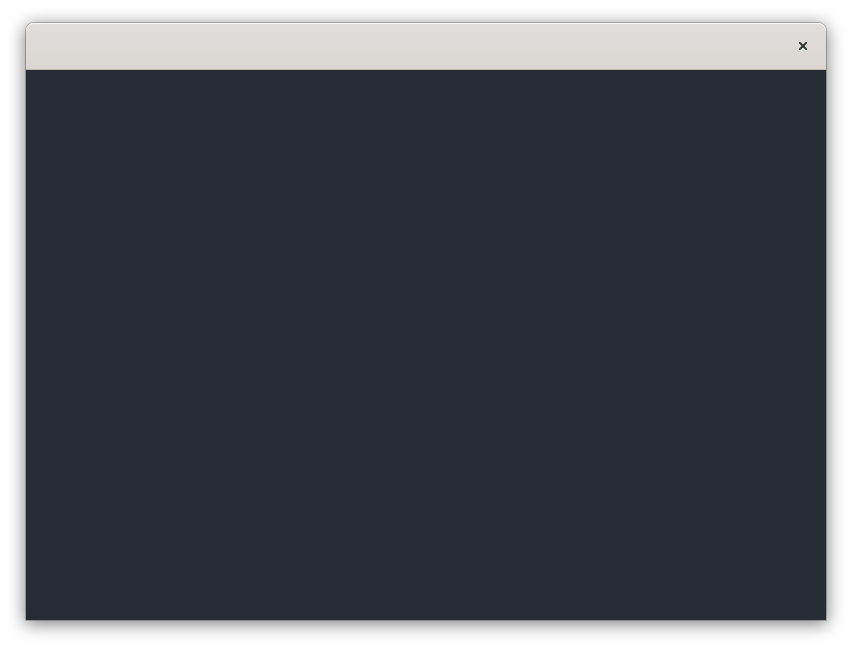
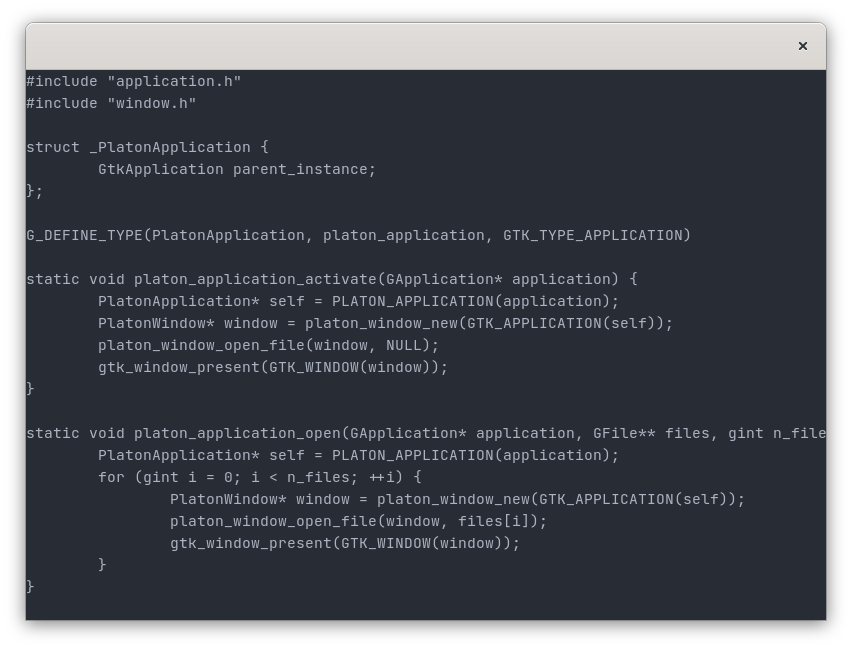
PlatonEditorWidget: draw text

diff --git a/editor_widget.cpp b/editor_widget.cpp
@@ -1,5 +1,8 @@
 #include "editor_widget.h"
 #include "core/editor.hpp"
+#include <cmath>
+
+#define LINE_HEIGHT_FACTOR 1.5
 
 typedef struct {
 	GtkAdjustment *hadjustment;
@@ -7,6 +10,10 @@ typedef struct {
 	GtkScrollablePolicy hscroll_policy;
 	GtkScrollablePolicy vscroll_policy;
 	Editor* editor;
+	PangoFontDescription* font_description;
+	double ascent;
+	double line_height;
+	double char_width;
 } PlatonEditorWidgetPrivate;
 
 G_DEFINE_TYPE_WITH_CODE(PlatonEditorWidget, platon_editor_widget, GTK_TYPE_WIDGET,
@@ -22,6 +29,22 @@ typedef enum {
 	PROP_VSCROLL_POLICY,
 	N_PROPERTIES
 } PlatonEditorWidgetProperty;
+
+static void update(PlatonEditorWidget* self) {
+	PlatonEditorWidgetPrivate* priv = (PlatonEditorWidgetPrivate*)platon_editor_widget_get_instance_private(self);
+	if (priv->vadjustment) {
+		const double page_size = gtk_widget_get_allocated_height(GTK_WIDGET(self));
+		const double upper = std::max(priv->editor->get_total_lines() * priv->line_height, page_size);
+		const double max_value = std::max(upper - page_size, 0.0);
+		g_object_freeze_notify(G_OBJECT(priv->vadjustment));
+		gtk_adjustment_set_page_size(priv->vadjustment, page_size);
+		gtk_adjustment_set_upper(priv->vadjustment, upper);
+		if (gtk_adjustment_get_value(priv->vadjustment) > max_value) {
+			gtk_adjustment_set_value(priv->vadjustment, max_value);
+		}
+		g_object_thaw_notify(G_OBJECT(priv->vadjustment));
+	}
+}
 
 static void platon_editor_widget_get_property(GObject* object, guint property_id, GValue* value, GParamSpec* pspec) {
 	PlatonEditorWidget* self = PLATON_EDITOR_WIDGET(object);
@@ -54,6 +77,7 @@ static void platon_editor_widget_set_property(GObject* object, guint property_id
 		break;
 	case PROP_VADJUSTMENT:
 		priv->vadjustment = GTK_ADJUSTMENT(g_value_get_object(value));
+		update(self);
 		break;
 	case PROP_HSCROLL_POLICY:
 		priv->hscroll_policy = (GtkScrollablePolicy)g_value_get_enum(value);
@@ -93,10 +117,12 @@ static void platon_editor_widget_unrealize(GtkWidget* widget) {
 }
 
 static void platon_editor_widget_size_allocate(GtkWidget* widget, GtkAllocation* allocation) {
+	PlatonEditorWidget* self = PLATON_EDITOR_WIDGET(widget);
 	gtk_widget_set_allocation(widget, allocation);
 	if (gtk_widget_get_realized(widget)) {
 		gdk_window_move_resize(gtk_widget_get_window(widget), allocation->x, allocation->y, allocation->width, allocation->height);
 	}
+	update(self);
 }
 
 static void set_source(cairo_t* cr, const Color& color) {
@@ -106,9 +132,26 @@ static void set_source(cairo_t* cr, const Color& color) {
 static gboolean platon_editor_widget_draw(GtkWidget* widget, cairo_t* cr) {
 	PlatonEditorWidget* self = PLATON_EDITOR_WIDGET(widget);
 	PlatonEditorWidgetPrivate* priv = (PlatonEditorWidgetPrivate*)platon_editor_widget_get_instance_private(self);
+	const double allocated_height = gtk_widget_get_allocated_height(widget);
+	const double vadjustment = gtk_adjustment_get_value(priv->vadjustment);
+	const double max_row = priv->editor->get_total_lines();
+	const size_t start_row = std::clamp(std::floor(vadjustment / priv->line_height), 0.0, max_row);
+	const size_t end_row = std::clamp(std::ceil((allocated_height + vadjustment) / priv->line_height), 0.0, max_row);
 	const Theme& theme = priv->editor->get_theme();
+	const auto lines = priv->editor->render(start_row, end_row);
 	set_source(cr, theme.background);
 	cairo_paint(cr);
+	set_source(cr, theme.styles[0].color);
+	for (size_t row = start_row; row < end_row; ++row) {
+		const double y = row * priv->line_height - vadjustment;
+		PangoLayout* layout = pango_layout_new(gtk_widget_get_pango_context(GTK_WIDGET(self)));
+		pango_layout_set_font_description(layout, priv->font_description);
+		pango_layout_set_text(layout, lines[row - start_row].text.c_str(), -1);
+		PangoLayoutLine* layout_line = pango_layout_get_line_readonly(layout, 0);
+		cairo_move_to(cr, 0.0, y + priv->ascent);
+		pango_cairo_show_layout_line(cr, layout_line);
+		g_object_unref(layout);
+	}
 	return GDK_EVENT_STOP;
 }
 
@@ -139,6 +182,24 @@ static void platon_editor_widget_class_init(PlatonEditorWidgetClass* klass) {
 }
 
 static void platon_editor_widget_init(PlatonEditorWidget* self) {
+	PlatonEditorWidgetPrivate* priv = (PlatonEditorWidgetPrivate*)platon_editor_widget_get_instance_private(self);
+	GSettings* settings = g_settings_new("org.gnome.desktop.interface");
+	gchar* monospace_font_name = g_settings_get_string(settings, "monospace-font-name");
+	g_object_unref(settings);
+	priv->font_description = pango_font_description_from_string(monospace_font_name);
+	g_free(monospace_font_name);
+	PangoFontMetrics* metrics = pango_context_get_metrics(gtk_widget_get_pango_context(GTK_WIDGET(self)), priv->font_description, NULL);
+	double font_size = pango_units_to_double(pango_font_description_get_size(priv->font_description));
+	if (!pango_font_description_get_size_is_absolute(priv->font_description)) {
+		font_size = font_size / 72.0 * 96.0;
+	}
+	const double ascent = pango_units_to_double(pango_font_metrics_get_ascent(metrics));
+	const double descent = pango_units_to_double(pango_font_metrics_get_descent(metrics));
+	priv->line_height = std::round(font_size * LINE_HEIGHT_FACTOR);
+	priv->ascent = std::round(ascent + (priv->line_height - (ascent + descent)) / 2.0);
+	priv->char_width = pango_units_to_double(pango_font_metrics_get_approximate_char_width(metrics));
+	pango_font_metrics_unref(metrics);
+	gtk_widget_add_events(GTK_WIDGET(self), GDK_SCROLL_MASK | GDK_SMOOTH_SCROLL_MASK);
 }
 
 PlatonEditorWidget* platon_editor_widget_new(GFile* file) {
